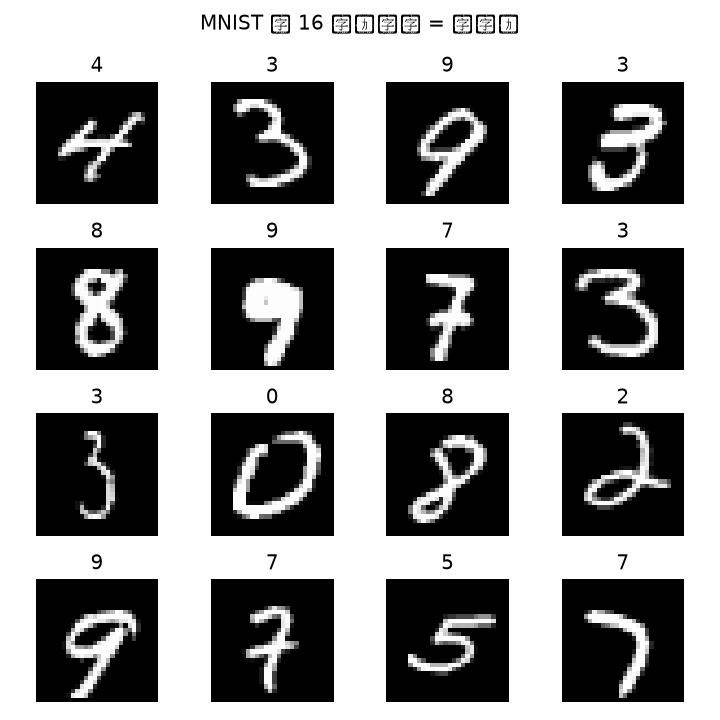
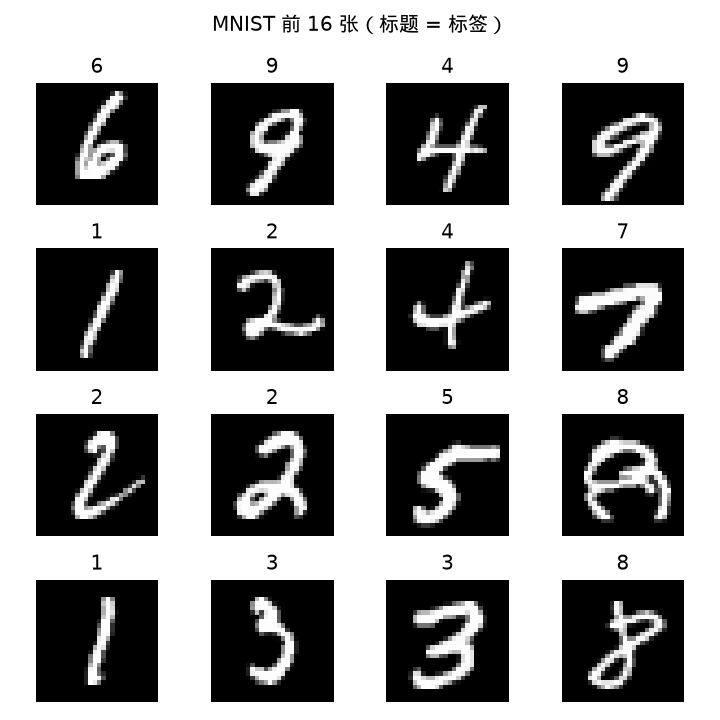
vault backup: 2026-10-17 22:32:26

diff --git a/Artificial_Intelligence/DeepLearningRM/错误记录/E001 matplotlib无显示环境Agg后端与中文字体.md b/Artificial_Intelligence/DeepLearningRM/错误记录/E001 matplotlib无显示环境Agg后端与中文字体.md
@@ -25,10 +25,10 @@
 import matplotlib
 matplotlib.use("Agg")        # 无显示环境：只存图、不弹窗
 import matplotlib.pyplot as plt
-plt.rcParams["font.sans-serif"] = ["DejaVu Sans", "Droid Sans Fallback"]  # 英文用 DejaVu、中文 fallback 到 Droid
-plt.rcParams["axes.unicode_minus"] = False                                  # 负号正常显示
+plt.rcParams["font.family"] = ["DejaVu Sans", "Droid Sans Fallback"]  # 用 font.family 列表才会按字形 fallback
+plt.rcParams["axes.unicode_minus"] = False                            # 负号正常显示
 ```
 
 要点：
 - **Agg 后端**：无 GUI 环境（服务器 / WSL 无显示）画图一律用 `Agg`，`savefig` 存 PNG，不弹窗
-- **字体列表顺序不能反**：`["DejaVu Sans", "Droid Sans Fallback"]` —— 英文数字用 DejaVu，中文自动 fallback 到 Droid
+- **必须用 `font.family` 列表，不是 `font.sans-serif`**（matplotlib 3.11 实测）：`font.sans-serif` 列表不触发按字形 fallback，中文照样缺；只有 `font.family = ["DejaVu Sans", "Droid Sans Fallback"]` 才会英文数字用 DejaVu、中文自动落到 Droid
